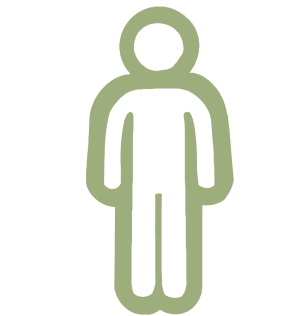
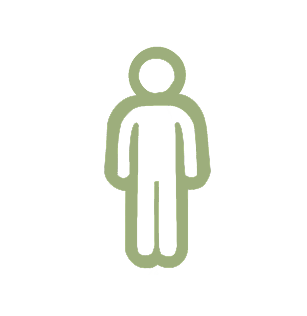
img updates

Changed region(s): [[0.2638, 0.0, 0.7622, 0.9968]]

diff --git a/public/tv1/index.html b/public/tv1/index.html
@@ -21,7 +21,7 @@
 <body>
   <div id="headerLogos" class="header-logos" style="display: none;">
     <img src="img/fn-logo.gif" alt="Left Logo" class="header-logo" />
-    <img src="../org-mit.png" alt="Right Logo" class="header-logo" />
+    <img src="img/scl_logo_white.png" alt="Right Logo" class="header-logo" />
   </div>
   <!-- === your original DOM skeleton (unchanged IDs/classes) === -->
   <div class="main-content">
